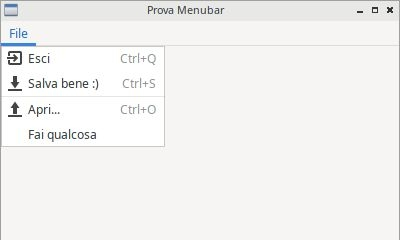
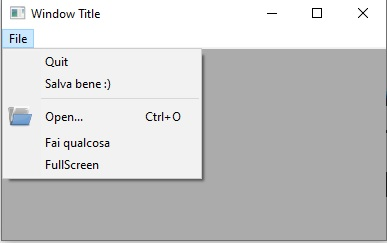
full GUI, Menubar, Toolbar. Forse, statusbar

diff --git a/docs/wx/170_full_gui.md b/docs/wx/170_full_gui.md
@@ -41,15 +41,19 @@ class Finestra(wx.Frame):
         # -------------------------------------------
         return
 
+    # in questa funzione andremo a creare e popolare la menubar
     def creaMenubar(self):
         return
     
+    # in questa funzione andreamo a creare e popolare la toolbar
     def creaToolbar(self):
         return
     
+    # in questa funzione aggiungeremo la statusbar
     def creaStatusbar(self):
         return
     
+    # questa funzione implementa la vista principale del programma
     def creaMainView(self):
         return
 
@@ -68,16 +72,18 @@ La struttura si spiega abbastanza da sola... avanti, partendo da qui!
 
 ## Azioni predefinite
 
-Domanda a bruciapelo:
 
-> In quanti modi diversi si può fare copia e incolla?
+***In quanti modi diversi si può fare copia e incolla?***
+
 
 Con la combinazione CTRL + C... con l'icona copia sulla barra degli strumenti, con il menù del tasto destro, con la barra in alto...
-Mi vengono in mente almeno 4 metodi.
+Mi vengono in mente almeno 4 metodi. Probabilmente ne esistono anche altri.
 
-Adesso pensate un momento come foste **veri** programmatori:
+Adesso pensate un momento come foste ***veri*** programmatori:
 
-> Ma... per ognuna di queste modalità occorre reimplementare un oggetto grafico e una funzione evento???
+
+***Ma... per ognuna di queste modalità occorre reimplementare un oggetto grafico e una funzione evento???***
+
 
 Fortunatamente la risposta a quest'ultima domanda è **no**! 
 
@@ -126,175 +132,78 @@ A breve vedremo anche come utilizzarle in maniera più che semplice!!!
 ## Menubar
 
 I menù sono oggetti grafici che tutti conosciamo e a cui tutti siamo
-abituati, non ho bisogno di grandi introduzioni! Poiché la nostra
-applicazione iniziale (un oggetto della classe wx.Frame) è completamente
-spoglia, come prima cosa dovremo inserire una MenuBar (una barra dei
-menù) e quando sarà pronta impostarla come barra della nostra Frame
-Widget:
+abituati, non c'è bisogno di fare grandi introduzioni! 
+
+Per aggiungere una menubar:
+
+1. lavoriamo nella funzione `creaMenubar` dello skeleton.
+2. prima creiamo un oggetto Menubar
+3. poi creiamo ogni menù che andremo ad aggiungervi (es: File, Modifica, Visualizza, etc...)
+4. aggiungiamo le azioni necessarie ai nostri menù
+5. aggiungiamo i menù creati alla menubar
+6. applichiamo la menubar alla nostra applicazione
+
+Vediamo degli esempi di codice:
 
 ``` python
+
+# creiamo un oggetto Menubar
 mb = wx.MenuBar()
 
-# ... metti qualcosa nella MenuBar...
-
-window.SetMenuBar(mb)
-```
-
-Non appena avete creato la MenuBar, sarà possibile inserirvi dentro menù
-con azioni predefinite o personalizzate. Ecco alcuni esempi:
-
-``` python
-# 1) PRIMA crea il menù...
+# crea un menù...
 fileMenu = wx.Menu()
 
-# 2) ...POI aggiungi alcune azioni...
-# inserimento DIRETTO di azione predefinita (senza icona su Windows e MacOS)
-fileItem = fileMenu.Append(wx.ID_EXIT)
+# POI aggiungi alcune azioni...
+fileMenu.Append(wx.ID_EXIT)
 
 # inserimento DIRETTO di azione predefinita con TESTO e DESCRIZIONE personalizzati
-saveItem = fileMenu.Append(wx.ID_SAVE, "Salva bene :)", "Salva il documento corrente")
+fileMenu.Append(wx.ID_SAVE, "Salva bene :)", "Salva il documento corrente")
 
 # riga di separazione: serve solo come abbellimento
 fileMenu.AppendSeparator()
 
 # creazione di un menuItem da azione predefinita, inserimento icona, aggiunta al menù
-saveItem = wx.MenuItem(fileMenu, wx.ID_OPEN)
-saveItem.SetBitmap(wx.ArtProvider.GetBitmap(wx.ART_FILE_OPEN))
-fileMenu.Append(saveItem)
+openItem = wx.MenuItem(fileMenu, wx.ID_OPEN)
+openItem.SetBitmap(wx.ArtProvider.GetBitmap(wx.ART_FILE_OPEN))
+fileMenu.Append(openItem)
 
 # creazione di una azione personalizzata con ID=35
 customItem = wx.MenuItem(fileMenu, 35, "Fai qualcosa")
 fileMenu.Append(customItem)
 
-# 3) ...INFINE aggiungi il menù alla menubar
+# CHECK ITEM
+self.fullScreenItem = wx.MenuItem(fileMenu, id=100, text="FullScreen", kind=wx.ITEM_CHECK)
+fileMenu.Append(self.fullScreenItem)
+        
+# PENULTIMA COSA: aggiungi il menù alla menubar
 # (La & prima della F di File attiva la scorciatoia ALT + F)
 menubar.Append(fileMenu, '&File')
+
+# INFINE!!!
+self.SetMenubar(menubar)
 ```
 
-Si ottiene questo (come vedete, su Linux c'è un'icona in più...):
+
+Se avete sistemato tutto al posto giusto, dovreste ottenere qualcosa di simile a questo:
+
+<br>
 
 ![image](images/wxMenuBar.jpg)
 
-Per collegare le azioni create ad una funzione (Binding) va intercettato
-l'evento wx.EVT_MENU abbinato all'ID della voce di menù in questione:
+<br>
+
+Per collegare le azioni create ad una funzione (**Binding**) va intercettato
+l'evento `wx.EVT_MENU` abbinato all'ID della voce di menù in questione:
 
 ``` python
-# per fare Bind dell'azione con ID = wx.ID_EXIT ad una funzione chiamata esci
-self.Bind(wx.EVT_MENU, self.esci, id=wx.ID_EXIT)
+# per fare Bind dell'azione con ID = wx.ID_EXIT ad una funzione chiamata funzioneEsci
+self.Bind(wx.EVT_MENU, self.funzioneEsci, id=wx.ID_EXIT)
 
 # per fare Bind dell'azione con ID = 35 ad una funzione chiamata faiQualcosa
 self.Bind(wx.EVT_MENU, self.faiQualcosa, id=35)
 ```
 
-Come al solito allego il codice completo dell'esempio proposto:
 
-``` python
-import wx
-
-class Esempio(wx.Frame):
-
-    def __init__(self):
-        super().__init__(None, title="Prova Menubar")
-
-        menubar = wx.MenuBar()
-
-        fileMenu = wx.Menu()
-
-        # inserimento DIRETTO di azione predefinita (senza icona su Windows e MacOS)
-        fileItem = fileMenu.Append(wx.ID_EXIT)
-
-        # inserimento DIRETTO di azione predefinita con TESTO e DESCRIZIONE personalizzati
-        saveItem = fileMenu.Append(wx.ID_SAVE, "Salva bene :)", "Salva il documento corrente")
-
-        # riga di separazione: serve solo come abbellimento
-        fileMenu.AppendSeparator()
-
-        # creazione di un menuItem da azione predefinita, inserimento icona, aggiunta al menù
-        saveItem = wx.MenuItem(fileMenu, wx.ID_OPEN)
-        saveItem.SetBitmap(wx.ArtProvider.GetBitmap(wx.ART_FILE_OPEN))
-        fileMenu.Append(saveItem)
-
-        # creazione di una azione personalizzata con ID=35
-        customItem = wx.MenuItem(fileMenu, 35, "Fai qualcosa")
-        fileMenu.Append(customItem)
-
-        menubar.Append(fileMenu, '&File')
-        self.SetMenuBar(menubar)
-
-        self.Bind(wx.EVT_MENU, self.chiudi, id=wx.ID_EXIT)
-        self.Bind(wx.EVT_MENU, self.faiQualcosa, id=35)
-
-    def chiudi(self, event):
-        self.Close(True)
-        return
-
-    def faiQualcosa(self,event):
-        dial = wx.MessageDialog(None, "E cosa dovrei fare?", "Esclamazione", wx.OK | wx.ICON_EXCLAMATION)
-        dial.ShowModal()
-
-# ----------------------------------------
-app = wx.App()
-window = Esempio()
-window.Show()
-app.MainLoop()
-```
-
-### Check Items
-
-Devo aggiungere a questo punto una caratteristica della classe
-wx.MenuItem, ovvero quella che implementa le voci di menù e può
-presentarsi sotto forme diverse: noi ne vedremo solo due, di cui una (la
-forma *NORMALE*) è quella di tutte le voci di menù viste fino ad ora.
-
-La seconda forma interessante (dal nostro punto di vista) è quella
-denominata **ITEM_CHECK**: le azioni in questa forma presentano (oppure
-no) un tick di attivazione e stanno alle azioni normali come i
-ToggleButton stanno ai Button. Come accennato, quando clicchi su queste
-azioni si attiva un tick su di esse che si disabilita al click
-successivo. Utili per azioni a due stati (es: visualizza/nascondi barra
-di stato, attiva/disattiva fullscreen, etc..)
-
-![image](images/wxCheckMenuItem.jpg)
-
-Per implementare un *Check Item* ripropongo un esempio che attiva e
-disattiva il fullscreen (già visto):
-
-``` python
-import wx
-
-class Esempio(wx.Frame):
-
-    def __init__(self):
-        super().__init__(None, title="Prova Menubar")
-
-        self.menubar = wx.MenuBar()
-        fileMenu = wx.Menu()
-
-        # Esempio di CHECK MENU ITEM completamente personalizzato
-        self.fsItem = wx.MenuItem(fileMenu, id=100, text="FullScreen", kind=wx.ITEM_CHECK)
-        fileMenu.Append(self.fsItem)
-
-        self.menubar.Append(fileMenu, '&File')
-        self.SetMenuBar(self.menubar)
-
-        self.Bind(wx.EVT_MENU, self.mettiFullScreen, id=100)
-
-    def mettiFullScreen(self, event):
-        if self.fsItem.IsChecked():
-            # style = 0 serve per non nascondere la menubar quando si è fullscreen
-            self.ShowFullScreen(True, style=0)
-            self.fsItem.SetItemLabel("Exit fullscreen")
-        else:
-            self.ShowFullScreen(False)
-            self.fsItem.SetItemLabel("Fullscreen")
-        return
-
-# ----------------------------------------
-app = wx.App()
-window = Esempio()
-window.Show()
-app.MainLoop()
-```
 
 ## Toolbar
 
@@ -304,77 +213,37 @@ dovrebbero permettere l'accesso alle azioni veloci, ovvero a quelle di
 maggior utilizzo per gli utenti.
 
 Per aggiungere una Toolbar alla nostra Frame Widget dobbiamo utilizzare
-la funzione [CreateToolBar()]{.title-ref} a cui poi potremo aggiungere
+la funzione `CreateToolBar` a cui poi potremo aggiungere
 le azioni che ci interessano.
 
-``` python
-toolbar = window.CreateToolBar()
 
-toolbar.AddTool(...e qui si aggiungono le azioni una ad una...)
+``` python
+toolbar = self.CreateToolBar()
+
+# toolbar.AddTool(...e qui si aggiungono le azioni una ad una...)
+toolbar.AddTool(wx.ID_OPEN, "Apri",  wx.ArtProvider.GetBitmap(wx.ART_FOLDER_OPEN))
+toolbar.AddTool(wx.ID_SAVE, "Salva", wx.ArtProvider.GetBitmap(wx.ART_FILE_SAVE))
+
+# un separatore: come abbellimento e per vedere come si fa :)
+toolbar.AddSeparator()
+
+toolbar.AddTool(wx.ID_EXIT, "Esci",  wx.ArtProvider.GetBitmap(wx.ART_QUIT) )
+
 
 # riempita la toobar, va eseguito il metodo Realize()
 toolbar.Realize()
 ```
 
-Facciamo anche qui un esempio con 2 azioni e un separatore: la prima
-azione sarà un azione standard, mentre la seconda una azione
-personalizzata:
 
-``` 
-# ...
-# azione standard: ID, descrizione, icona
-exitTool = toolbar.AddTool( wx.ID_EXIT, "ESCI", wx.ArtProvider.GetBitmap(wx.ART_QUIT) )
+A questo punto, se volete collegare i pulsanti della Toolbar ad una funzione, 
+basta eseguire il solito Bind() con l'evento `wx.EVT_TOOL`.
 
-# un separatore: come abbellimento e per vedere come si fa :)
-toolbar.AddSeparator()
 
-# azione personalizzata: ID, descrizione, icona
-questionTool = toolbar.AddTool( 73 , "Fai una domanda" , wx.ArtProvider.GetBitmap(wx.ART_QUESTION) )
+``` python
+self.Bind(wx.EVT_TOOL, self.funzioneEsci, id = wx.ID_EXIT )
+self.Bind(wx.EVT_TOOL, self.funzioneApri, id = wx.ID_OPEN )
 ```
 
-A questo punto, se volete collegare i pulsanti della Toolbar ad una
-funzione, basta eseguire il solito Bind() con l'evento **wx.EVT_TOOL**.
-
-``` 
-self.Bind(wx.EVT_TOOL, self.esci, exitTool )
-self.Bind(wx.EVT_TOOL, self.dattiUnaRisposta, exitTool )
-```
-
-Come al solito, propongo l'esempio completo delle toolbar.
-
-``` 
-import wx
-
-class Esempio(wx.Frame):
-
-    def __init__(self):
-        super().__init__(None, title="Prova Toolbar")
-
-        toolbar = self.CreateToolBar()
-
-        exitTool = toolbar.AddTool( wx.ID_EXIT, "ESCI", wx.ArtProvider.GetBitmap(wx.ART_QUIT) )
-        toolbar.AddSeparator()
-        questionTool = toolbar.AddTool( 73 , "Fai una domanda" , wx.ArtProvider.GetBitmap(wx.ART_QUESTION) )
-
-        toolbar.Realize()
-
-        self.Bind(wx.EVT_TOOL, self.esci, exitTool)
-        self.Bind(wx.EVT_TOOL, self.dattiUnaRisposta, questionTool)
-
-    def esci(self, event):
-        self.Close(True)
-        return
-
-    def dattiUnaRisposta(self,event):
-        dial = wx.MessageDialog(None, "Bravo!", "Risposta", wx.OK | wx.ICON_EXCLAMATION)
-        dial.ShowModal()
-
-# ----------------------------------------
-app = wx.App()
-window = Esempio()
-window.Show()
-app.MainLoop()
-```
 
 !!! warning "Attenzione!"
 
@@ -390,6 +259,7 @@ Vediamo una semplicissima dimostrazione di ciò con una finestra avente
 una sola azione, presente sia nella menubar che nella toolbar.
 
 ``` 
+# Esempio banale con una sola azione su menu e toolbar, UN UNICO BINDING
 import wx
 
 class Esempio(wx.Frame):
@@ -414,10 +284,11 @@ class Esempio(wx.Frame):
         return
 
 # ----------------------------------------
-app = wx.App()
-window = Esempio()
-window.Show()
-app.MainLoop()
+if __name__ == "__main__":
+    app = wx.App()
+    window = Esempio()
+    window.Show()
+    app.MainLoop()
 ```
 
 ## wx.StatusBar
@@ -457,12 +328,11 @@ class Esempio(wx.Frame):
 
 # ----------------------------------------
 app = wx.App()
-
 window = Esempio()
 window.Show()
-
 app.MainLoop()
 ```
+
 
 ## Context Menu
 
